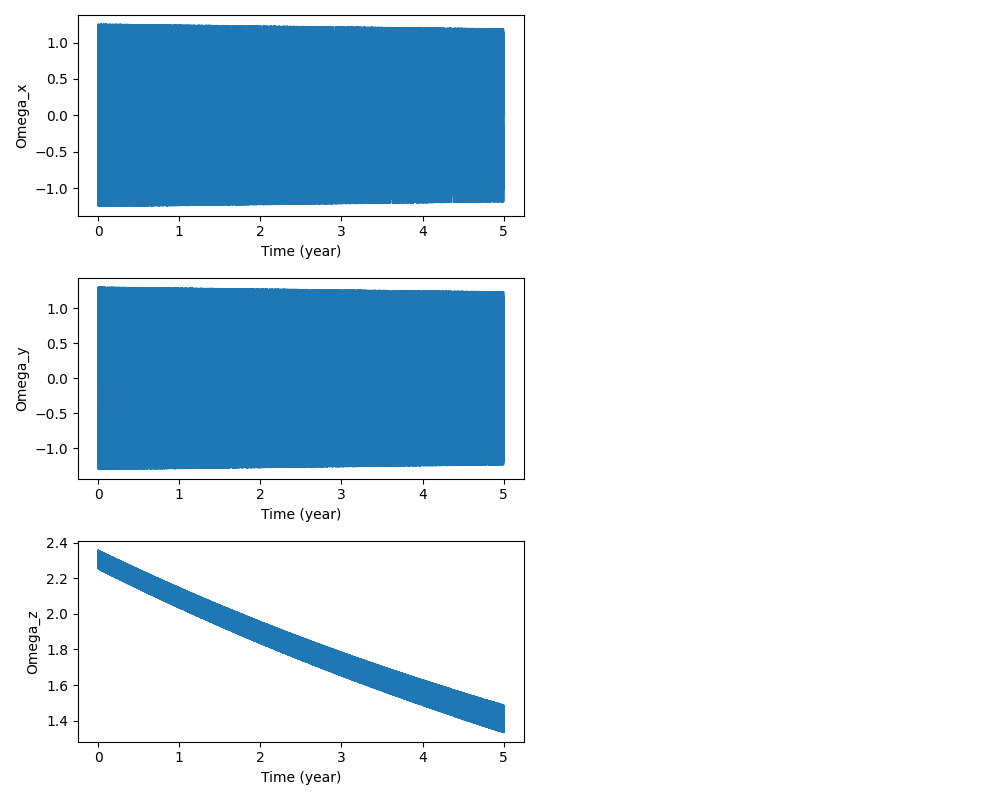
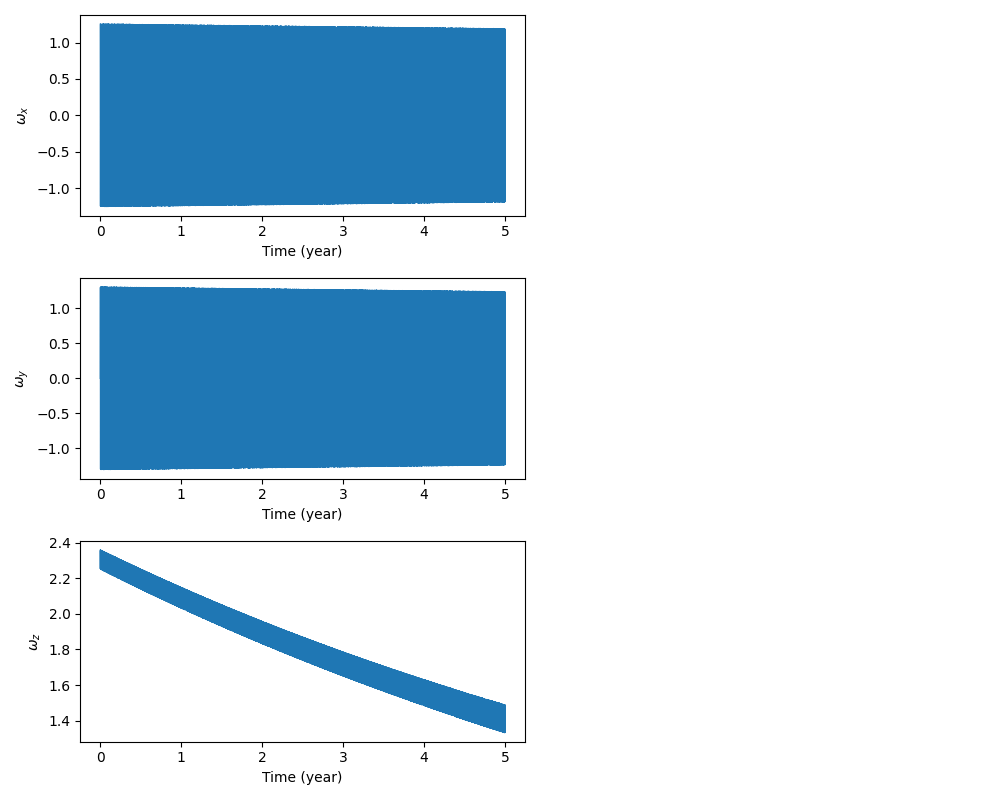
ajout lightcurve.py

diff --git a/LightCurve.py b/LightCurve.py
@@ -1,0 +1,195 @@
+from math import pi, log, sin, cos, exp
+import numpy as np
+import matplotlib.pyplot as plt
+from skyfield.api import load, Topos, EarthSatellite
+
+def normalize(vector) :
+    return vector / np.linalg.norm(vector)
+
+
+####################################################
+#Fonctions à coder / à verifier :
+def I2BF(X, q) :
+    #Cette fonction qui vient de visualisation.py passe de X dans le BF à a dans le ECI, il faudrait l'inverser 
+    '''Body frame (cartesian) to Earth Centered Inertial frame (cartesian) thanks to the quaternion of the rotation'''
+    x,y,z = X
+    X_vect = np.transpose(np.array([x,y,z]))
+    a,b,c,d = q
+    P= np.array([[2*(a**2+b**2)-1 , 2*(a*d+b*c) , 2*(b*d-a*c)],
+                  [2*(b*c-a*d) , 2*(a**2+c**2)-1 , 2*(a*b+c*d)],
+                  [2*(a*c+b*d) , 2*(c*d-a*b) , 2*(a**2+d**2)-1]])
+
+    a = np.dot(X_vect,P)
+    return((a[0],a[1],a[2]))
+
+#Fonctions de conversion à vérifier, normalement c'est OK!
+def sph2cart(Xsph) :
+    rho, theta, phi = Xsph
+    x = rho*sin(theta)*cos(phi)
+    y = rho*sin(theta)*sin(phi)
+    z = rho*cos(theta)
+    return np.array([x,y,z])
+
+def sph2radec(Xsph) :
+    rho, theta, phi = Xsph
+    delta = pi/2-theta
+    return np.array([rho,phi,delta])
+
+def radec2sph(Xradec) : 
+    rho, phi, delta = Xradec
+    theta = pi/2 - delta
+    return np.array([rho, theta, phi])
+
+def radec2cart(Xradec) :
+    Xsph = radec2sph(Xradec)
+    return sph2cart(Xsph)
+####################################################
+
+
+class Surface :
+    def __init__(self,vertices, normal, albedo=0.2) :
+        self.P1 = vertices[0]
+        self.P2 = vertices[1]
+        self.P3 = vertices[2]
+        self.normal_vector = normalize(normal)
+        self.area = 0.5*np.linalg.norm(np.cross(self.P2-self.P1,self.P3-self.P1))
+        self.albedo = albedo
+
+class Object :
+    def __init__(self,surf_list) :
+        self.surf_list = surf_list
+
+    def setObj(self,sat) :
+        self.realobj = sat
+    
+    def setOrientation(self,orientation_quaternion) :
+        self.orientation_quaternion = orientation_quaternion
+
+    def computeBoxMesh(self, dim_x,dim_y,dim_z) :
+        x,y,z = dim_x/2, dim_y/2, dim_z/2
+        l_surf = []
+        #Top and bottom
+        l_surf.append(Surface(np.array([[x,y,z],[-x,-y,z],[-x,y,z]]), np.array([0,0,1])))
+        l_surf.append(Surface(np.array([[x,y,z],[x,-y,z],[-x,-y,z]]), np.array([0,0,1])))
+        l_surf.append(Surface(np.array([[-x,-y,-z],[x,-y,-z],[-x,y,-z]]), np.array([0,0,-1])))
+        l_surf.append(Surface(np.array([[x,-y,-z],[x,y,-z],[-x,y,-z]]), np.array([0,0,-1])))
+        #Back and front
+        l_surf.append(Surface(np.array([[x,y,z],[-x,y,z],[-x,y,-z]]), np.array([0,1,0])))
+        l_surf.append(Surface(np.array([[x,y,z],[-x,y,-z],[x,y,-z]]), np.array([0,1,0])))
+        l_surf.append(Surface(np.array([[-x,-y,z],[x,-y,z],[x,-y,-z]]), np.array([0,-1,0])))
+        l_surf.append(Surface(np.array([[-x,-y,z],[x,-y,-z],[-x,-y,-z]]), np.array([0,-1,0])))
+        #Left and right
+        l_surf.append(Surface(np.array([[-x,y,z],[-x,-y,z],[-x,y,-z]]), np.array([-1,0,0])))
+        l_surf.append(Surface(np.array([[-x,y,-z],[-x,-y,z],[-x,-y,-z]]), np.array([-1,0,0])))
+        l_surf.append(Surface(np.array([[x,y,z],[x,y,-z],[x,-y,-z]]), np.array([1,0,0])))
+        l_surf.append(Surface(np.array([[x,-y,z],[x,y,z],[x,-y,-z]]), np.array([1,0,0])))
+        self.surf_list = l_surf  
+
+    def computeSphereMesh(self, r, N) :
+        surftest = Surface(np.array([[1,0,0], [1,1,0], [0,0,0]]),np.array([0,0,1]))
+        self.surf_list = [surftest]
+
+
+class Sphere(Object) :
+    def __init__(self,radius, nb_surf=264) :
+        self.r = radius
+        self.nb_surf = nb_surf
+        Object.computeSphereMesh(self,r,N)
+
+
+class Box(Object) :
+    def __init__(self,dim_x,dim_y,dim_z) :
+        self.nb_surf = 8
+        Object.computeBoxMesh(self,dim_x,dim_y,dim_z)
+
+
+def f(alpha, A_0=0.5, D=0.1, k=-0.5) :
+    return A_0*exp(-alpha/D) + k*alpha + 1
+
+
+#Les luminosités de Lommel-Seeliger et Lambert S_LS et S_L sont à coder
+#Cependant elles fonctionnenet bien pour les planetes et astéoides
+#Pour des satellites, préférer les modèles de Ashikhmin-Shirley et Cook-Torrance (a voir comment implémenter ça dans un second temps)
+def uB(loc,q) :
+    lat = loc.latitude
+    long = loc.longitude
+    return normalize(I2BF(radec2cart(np.array([1., lat, long])),q))
+
+def S_LS(mu, mu_0) :
+    # a coder, 
+    return 1.0 
+
+def S_L(mu, mu_0) :
+    return 1.0
+
+def S(mu,mu_0, alpha, c=0.1) :
+    return f(alpha)*(S_LS(mu,mu_0) + c*S_L(mu,mu_0))
+
+def L(object, obs, sun, t) :
+    alpha = phase_angle(object.realobj, obs, t)
+    res = 0
+    for surf in object.surf_list :
+        uB_n = surf.normal_vector
+        uB_obs = uB(obs,object.orientation_quaternion)
+        uB_sun = uB(sun,object.orientation_quaternion)
+
+        mu = np.dot(uB_n, uB_obs)
+        mu_0 = np.dot(uB_n, uB_sun)
+        res += L(mu,mu_0, alpha)*surf.albedo*surf.area
+    return res
+
+ts=load.timescale()
+eph=load('de421.bsp')
+sun, earth=eph['sun'],eph['earth']
+palaiseau = Topos(latitude = 48.7107853, longitude = 2.2110581)
+
+def phase_angle_pos(sat_pos,loc_pos,sol_pos):
+    return (sol_pos-sat_pos).separation_from(loc_pos-sat_pos)
+
+def phase_angle(sat,loc,t,sol=sun):
+     sun_from_earth = sol-earth
+     return phase_angle_pos(sat.at(t),loc.at(t),sun_from_earth.at(t))
+    
+iss = EarthSatellite('1 25544U 98067A   21011.39930122  .00001177  00000-0  29227-4 0  9996','2 25544  51.6469  38.2316 0000504 209.0007 284.1827 15.49278328264297',name='iss')
+t=ts.utc(2021,1,11,16,range(30))
+# separations = phase_angle(iss,palaiseau,t)
+
+
+#Génération d'une courbe de lumière :
+satellite = Box(1.,1.,1.)
+satellite.setObj(iss)
+t_list = np.linspace(0.,1.,num=5)
+q_list = np.ones((len(t),4))
+
+lightcurve = []
+for i in range(len(t)) :
+    q = q_list[i]
+    satellite.setOrientation(q)
+    lightcurve += [L(satellite,palaiseau,sun,t[i])]
+
+print(lightcurve)
+
+# m_sun = -26.73 #Sun magnitude
+
+# def p_diff(psi) :
+#     return 2*(sin(psi) + (pi-psi)*cos(psi))/(3*pi)
+
+# def m_obj(psi, d=1., R=6e5, rho_spec=0.175, rho_diff=0.175) :
+#     return m_sun - 2.5*log(d**2 * (rho_spec/4 + rho_diff*p_diff(psi))/(R**2))
+
+# def E_RSO(psi, d=1., R=6e5, rho_spec=0.175, rho_diff=0.175) :
+#     return 5.6e10 * 10**(-0.4*m_obj(psi, d, R, rho_spec, rho_diff))
+
+# psis = np.linspace(0,pi,100)
+# ms = [m_obj(psi) for psi in psis]
+# Es = [E_RSO(psi) for psi in psis]
+
+# plt.subplot(211)
+# plt.plot(psis,ms)
+# plt.ylabel('magnitude')
+# plt.subplot(212)
+# plt.plot(psis,Es)
+# plt.xlabel('angle (rad)')
+# plt.ylabel('irradiance ($ph/s/m^2$)')
+
+# plt.show()

diff --git a/visualisation.py b/visualisation.py
@@ -82,9 +82,6 @@ def print_ECO_ECI_radec(figname) :
     angular_velocity_ECO_lambda = []
     angular_velocity_ECO_theta = []
 
-    bla_theta = []
-    bla_lambda = []
-
     for i in range(Nlines) :
         angular_velocity_BF = angular_velocities_BF[i]
         quaternion = orientations_quaternion[i]
@@ -135,13 +132,13 @@ def print_ECO_ECI_radec(figname) :
     plt.subplot(131)
     plt.plot(times, angular_velocity_ECO_theta,linewidth=1.)
     plt.xlabel('Time (year)')
-    plt.ylabel('theta_ECO (deg)')
+    plt.ylabel('$\\theta_{ECO}$ (deg)')
     # plt.xlim(0,8)
 
     plt.subplot(132)
     plt.plot(times, angular_velocity_ECO_lambda,linewidth=1.)
     plt.xlabel('Time (year)')
-    plt.ylabel('lambda_ECO (deg)')
+    plt.ylabel('$\lambda_{ECO}$ (deg)')
     # plt.xlim(0,8)
     # plt.ylim(0,360)
 
@@ -149,8 +146,8 @@ def print_ECO_ECI_radec(figname) :
     ax.plot([ra*np.pi/180 for ra in angular_velocity_ECO_lambda],[180-dec for dec in angular_velocity_ECO_theta],linewidth=0.8)
     ax.set_rlabel_position(90)
     ax.set_rlim(0,90)
-    ax.text(np.radians(90+10),ax.get_rmax()*3./4.,'theta_ECO',rotation=90,ha='center',va='center',size=6)
-    ax.text(np.radians(20),ax.get_rmax()*1.1,'lambda_ECO',rotation=-70,ha='center',va='center',size=6)
+    ax.text(np.radians(90+10),ax.get_rmax()*3./4.,'$\\theta_{ECO}$',rotation=90,ha='center',va='center',size=6)
+    ax.text(np.radians(20),ax.get_rmax()*1.1,'$\lambda_{ECO}$',rotation=-70,ha='center',va='center',size=6)
     ax.set_yticklabels(['165°','150°','135°','120°','105°'],size=6)
 
     plt.tight_layout()
@@ -162,36 +159,36 @@ def print_ECI_cart(figname,timescale,zoom=True) :
     plt.subplot(321)
     plt.plot(times, [180*a[0]/pi for a in angular_velocities_BF],linewidth=1.)
     plt.xlabel('Time ('+timescale+')')
-    plt.ylabel('Omega_x')
+    plt.ylabel('$\omega_x$')
 
 
     plt.subplot(323)
     plt.plot(times, [180*a[1]/pi for a in angular_velocities_BF],linewidth=1.)
     plt.xlabel('Time ('+timescale+')')
-    plt.ylabel('Omega_y')
+    plt.ylabel('$\omega_y$')
 
 
     plt.subplot(325)
     plt.plot(times, [180*a[2]/pi for a in angular_velocities_BF],linewidth=1.)
     plt.xlabel('Time ('+timescale+')')
-    plt.ylabel('Omega_z')
+    plt.ylabel('$\omega_z$')
 
 
     if zoom :
         plt.subplot(322)
         plt.plot(times[Nlines-80:], [180*a[0]/pi for a in angular_velocities_BF[Nlines-80:]],linewidth=1.)
         plt.xlabel('Time ('+timescale+')')
-        plt.ylabel('Omega_x (ZOOM)')
+        plt.ylabel('$\omega_x$ (ZOOM)')
 
         plt.subplot(324)
         plt.plot(times[Nlines-80:], [180*a[1]/pi for a in angular_velocities_BF[Nlines-80:]],linewidth=1.)
         plt.xlabel('Time ('+timescale+')')
-        plt.ylabel('Omega_y (ZOOM)')
+        plt.ylabel('$\omega_y$ (ZOOM)')
 
         plt.subplot(326)
         plt.plot(times[Nlines-870:], [ 180*a[2]/pi for a in angular_velocities_BF[Nlines-870:]],linewidth=1.)
         plt.xlabel('Time ('+timescale+')')
-        plt.ylabel('Omega_y (ZOOM)')
+        plt.ylabel('$\Omega_z$ (ZOOM)')
 
 
     plt.tight_layout()
@@ -202,16 +199,16 @@ def print_ECI_cart(figname,timescale,zoom=True) :
 
 
 #Begining of the script
-#propa = '1.0.0_2020-10-22_11-02-54' #LAGEOS-2 8-years propagation - step 1s
-#propa = '1.0.0_2020-11-14_21-24-22' #LAGEOS-2 8-years propagation - step 0.1s
+propa = 'propagation_v1.0.0_2020-10-22_11-02-54.txt' #LAGEOS-2 8-years propagation - step 1s
+#propa = 'propagation_v1.0.0_2020-11-14_21-24-22.txt' #LAGEOS-2 8-years propagation - step 0.1s
 #propa = 'propagation_v1.0.0_2020-12-09_22-31-07.txt' #Fig16 - OrtizGomez
-propa="propagation_v1.0.0_2020-12-11_09-51-13.txt" #Envisat -5 year
+#propa="propagation_v1.0.0_2020-12-11_09-51-13.txt" #Envisat -5 year
 
-
-Path = './Simulations/Envisat/5years/'
-Nlines = 5*365*24
-timescale='year'
-FigDestination = './figures/Envisat/5years/'
+Path = './Simulations/LAGEOS-2/'
+#Path = './Simulations/Envisat/Fig16_OrtizGomez/'
+Nlines = 8*365
+timescale='years'
+FigDestination = './figures/LAGEOS-2/'
 
 
 with open(Path + propa,'r') as data_file:
@@ -219,7 +216,7 @@ with open(Path + propa,'r') as data_file:
 
 range_numbers = range(13,13+Nlines)
 
-if timescale=='year' :
+if timescale=='years' :
     times = [sec2year(float(lines[i].split()[0])) for i in range_numbers]
 elif timescale=='days' :
     times = [sec2days(float(lines[i].split()[0])) for i in range_numbers]
@@ -229,6 +226,6 @@ positions_ECI_c = [(float(lines[i].split()[4]),float(lines[i].split()[5]),float(
 angular_velocities_BF = [(float(lines[i].split()[7]),float(lines[i].split()[8]),float(lines[i].split()[9])) for i in range_numbers]
 orientations_quaternion = [(float(lines[i].split()[10]),float(lines[i].split()[11]),float(lines[i].split()[12]),float(lines[i].split()[13])) for i in range_numbers]
 
-#print_ECO_ECI_radec('lageos-2')
-#print_ECI_cart('Envisat_Velocity_cart.png','days')
-print_ECI_cart('Envisat_Velocity_cart.png',timescale,False)
+print_ECO_ECI_radec('lageos-2')
+#print_ECI_cart('Envisat_Fig16_Velocity_cart.png','days')
+#print_ECI_cart('Envisat_Velocity_cart.png',timescale,False)

diff --git a/geometry_helper.py b/geometry_helper.py
@@ -57,11 +57,13 @@ def affichage(list_surf):   #Realise un affichage d'une triangulation
         z = [surf.v1[2], surf.v2[2],surf.v3[2]]
 
         #On effectue une rotation des points affichés, car il ne peut pas afficher deux points avec les même coordonnées X et Y
-        c1,c2 = 0.999, 0.998
+        c1,c2 = 0.999999999, 0.999999998
         s1,s2 = np.sqrt(1-c1**2),np.sqrt(1-c2**2)
         surface = np.array([[1,0,0],[0,c1,-s1],[0,s1,c1]]) @ np.array([[c2,0,s2],[0,1,0],[-s2,0,c2]]) @ np.array([x,y,z])
         
+        
         ax.plot_trisurf(surface[0],surface[1],surface[2],linewidth=1,antialiased = True)
+        #ax.auto_scale_xyz([-5, 5], [-5, 5], [-5, 5])
     plt.show()
     
 
@@ -138,4 +140,4 @@ def export(list_surf,filename): #Ecrit un fichier pour une geometrie donnee au f
                     output.write('\t')
             output.write('0.3750000000000000\t0.2010000000000000\t0.4240000000000000\t0.095\t0.025\t0.880\n')   #Valeur arbitraire des coefficients de reflexion
 
-export(box(4,4,10),'toto.txt')
+affichage(box(4,4,10))
